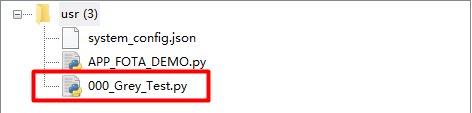
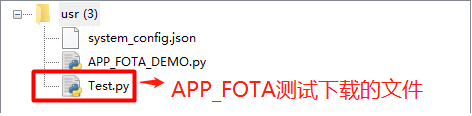
!37 勘误OTA文档文件名及URL书写规范 * fix (OTA): 勘误OTA文档文件名及URL书写规范 * fix (APP_FOTA): 优化编写者信息 * feat (FOTA升级): FOTA固件初版

diff --git a/docs/development_guide/zh/OTA升级/OTA升级-固件.md b/docs/development_guide/zh/OTA升级/OTA升级-固件.md
@@ -1,0 +1,130 @@
+# OTA升级-固件
+
+## 什么是OTA升级-固件
+
+OTA：Over-the-Air Technology空中下载技术，是通过移动通信的空中接口实现对移动终端设备进行远程管理的技术。
+
+OTA升级-固件就是利用这项技术进行模块固件升级。在QuecPython中该功能接口为[FOTA](/../../../API_reference/zh/QuecPython类库/fota.html)。为阅读体验以下均命名为FOTA。
+
+## 怎么使用FOTA
+
+### 硬件设计
+
+[FOTA](/../../../API_reference/zh/QuecPython类库/fota.html)升级主要为网络侧与模块内部交互，除前提条件模块需要组网成功外无需其他外围硬件支持。
+
+### 软件应用
+
+在之前的引言中已经提到OTA升级需要使用到HTTP服务器作为升级内容的存放点。对于FOTA而言是否就是存储需要升级的固件呢？答案不是。其主要原因也容易想到，无法就是固件太大与没内存缓存等。问题是不存储原始固件存储什么呢？答案是差分包。也是两版固件差异的部分。这样一来以上问题就得到了解决。
+
+那问题来了，怎么制作差分包FOTA升级时怎么操作呢？下面我们分：`FOTA分类`；`差分包制作`；`软件设计`三个部分来分别介绍。
+
+#### FOTA分类
+
+FOTA类型分为三种：`差分升级`；`全量升级`；`最小系统升级`。下面就这三种FOTA类型的功能与支持的型号分别进行介绍。
+
+| 序号 | FOTA类型     | 使用模组         | 实现功能          |
+| ---- | ------------ | ---------------- | ----------------- |
+| 1    | 差分升级     | 所有模组         | 固件升级          |
+| 2    | 全量升级     | ASR_16MFlash模组 | 客户脚本升级      |
+| 3    | 最小系统升级 | ASR_16MFlash模组 | 固件+客户脚本升级 |
+
+#### 差分包制作
+
+为便于客户制作差分包简化流程，QuecPython团队将制作差分包功能集成到了QPYcom工具中。如下图添加制作FOTA包按钮进入制作FOTA工具。
+
+![FOTA_1](media\FOTA_1.jpg)
+
+选择模块对应的平台。
+
+![FOTA_1](media\FOTA_2.jpg)
+
+选择对应的FOTA类型后，依次选择旧/新固件包，选择差分包输出的文件夹，最后选择`OK`按钮即可生成对应的差分包
+
+![FOTA_1](media\FOTA_3.jpg)
+
+若是进行全量或是最小系统升级，会需要选择”用户分区文件“。该文件存在于ASR的固件包中。将官网提供的.bin后缀固件修改为.zip后缀。然后使用压缩工具打开，其中的`customer_fs.bin`文件就是我们这里上传的文件。
+
+注意：只有ASR_16M模组才会支持此升级类型。
+
+![FOTA_1](media\FOTA_4.jpg)
+
+其他操作与上述差分升级流程类似，这里不做赘述。
+
+#### 软件设计
+
+首先将上面步骤制作的差分包上传至HTTP服务器中。然后模块执行如下代码进行FOTA升级。
+
+```Python
+# 差分升级
+import fota
+import utime
+
+DEF_URL1 = 'url1'
+
+def result(args):
+	print('download status:', args[0], 'download process:', args[1])
+	
+def run():
+	fota_obj = fota() # 创建 Fota 对象
+	print("进入升级状态......")
+	res = fota_obj.httpDownload(url1=DEF_URL1, callback=result)
+	if res != 0:
+		print("httpDownload error")
+		return
+	print("wait httpDownload , update...")
+	utime.sleep(2)
+
+run()
+```
+
+```python
+# 全量升级
+import fota
+import utime
+
+DEF_URL1 = 'url1'
+
+def result(args):
+    print('download status:', args[0], 'download process:', args[1])
+
+def run():
+    fota_obj = fota()  # 创建Fota对象
+    print("httpDownload...")
+    res = fota_obj.httpDownload(url1=DEF_URL1, callback=result)
+    if res != 0:
+        print("httpDownload error")
+        return
+    print("wait httpDownload , update...")
+    utime.sleep(2)
+
+run()
+```
+
+```python
+# 最小系统升级
+import fota
+import utime
+
+DEF_URL1 = 'url1'
+DEF_URL2 = 'url2'
+
+def run():
+    fota_obj = fota()  # 创建Fota对象
+    print("httpDownload...")
+    res = fota_obj.httpDownload(url1=DEF_URL1, url2=DEF_URL2)
+    if res != 0:
+        print("httpDownload error")
+        return
+    print("wait httpDownload , update...")
+    utime.sleep(2)
+
+run()
+```
+
+注：`url1`与`url2`替换为文件存放服务器的连接。
+
+## FOTA文件下载测试
+
+使用QPYcom工具和模组进行交互，下载示例代码至模组进行运行。
+
+FOTA过程模块会反复重启，请耐心等待。

diff --git a/docs/development_guide/zh/OTA升级/OTA升级-文件.md b/docs/development_guide/zh/OTA升级/OTA升级-文件.md
@@ -4,7 +4,7 @@
 
 OTA：Over-the-Air Technology空中下载技术，是通过移动通信的空中接口实现对移动终端设备进行远程管理的技术。
 
-OTA升级-文件就是利用这项技术对模块进行文件升级。在QuecPython中该功能接口为[APP_FOTA](../../API_reference/zh/QuecPython类库/app_fota.html)。为阅读体验以下均命名为APP_FOTA。
+OTA升级-文件就是利用这项技术对模块进行文件升级。在QuecPython中该功能接口为[APP_FOTA](../../../API_reference/zh/QuecPython类库/app_fota.html)。为阅读体验以下均命名为APP_FOTA。
 
 ## 怎么使用APP_FOTA
 
@@ -18,7 +18,7 @@ APP_FOTA升级主要为网络侧与模块内部交互，除前提条件模块需
 
 ### 软件应用
 
-QuecPython中APP_FOTA功能支持单文件下载与批量文件下载。API接口分别为：**fota.download(url, file_name)**与**fota.bulk_download(info=[])**，有关API的详细介绍请参考[APP_FOTA](../../API_reference/zh/QuecPython类库/app_fota.html)。
+QuecPython中APP_FOTA功能支持单文件下载与批量文件下载。API接口分别为：**fota.download(url, file_name)**与**fota.bulk_download(info=[])**，有关API的详细介绍请参考[APP_FOTA](../../../API_reference/zh/QuecPython类库/app_fota.html)。
 
 需要注意是：调用APP_FOTA接口后文件不是直接下载到**usr**分区（模块存放用户文件的分区），而是下载到一个临时的**.updater**文件夹中。该文件夹可能存在与**usr.updater**文件夹下，也可能存在于**./fota/usr/.updater**。但对于实际使用不需要关注这些。只需了解APP_FOTA后文件并非直接存在**usr**目录，需要**fota.set_update_flag()**设置升级标志位后重启模组才会自动将对应文件搬运至**usr**目录。
 
@@ -30,9 +30,9 @@ from misc import Power
 import utime as time
 
 
-files = ["000_Grey_Test.py"]
+files = ["file_name"]
 download_list = []
-url = r'%s' % "http://112.31.84.164:8300/upload/Grey/"
+url = r"url"
 
 for file in files:
     download_list.append({'url': (url + file), 'file_name': '/usr/%s' % file})
@@ -48,11 +48,11 @@ if download_list:
     Power.powerRestart()  # 重启模块
 ```
 
+注：`file_name`替换为需要下载的文件名加后缀一起。`url`替换为文件存放服务器的连接。
+
 ## APP_FOTA文件下载测试
 
 使用QPYcom工具和模组进行交互，下载示例代码至模组进行运行。
-
-<a href="media/APP_FOTA_DEMO.py" target="_blank">下载DEMO代码</a>
 
 APP_FOTA_DEMO运行前：
 
